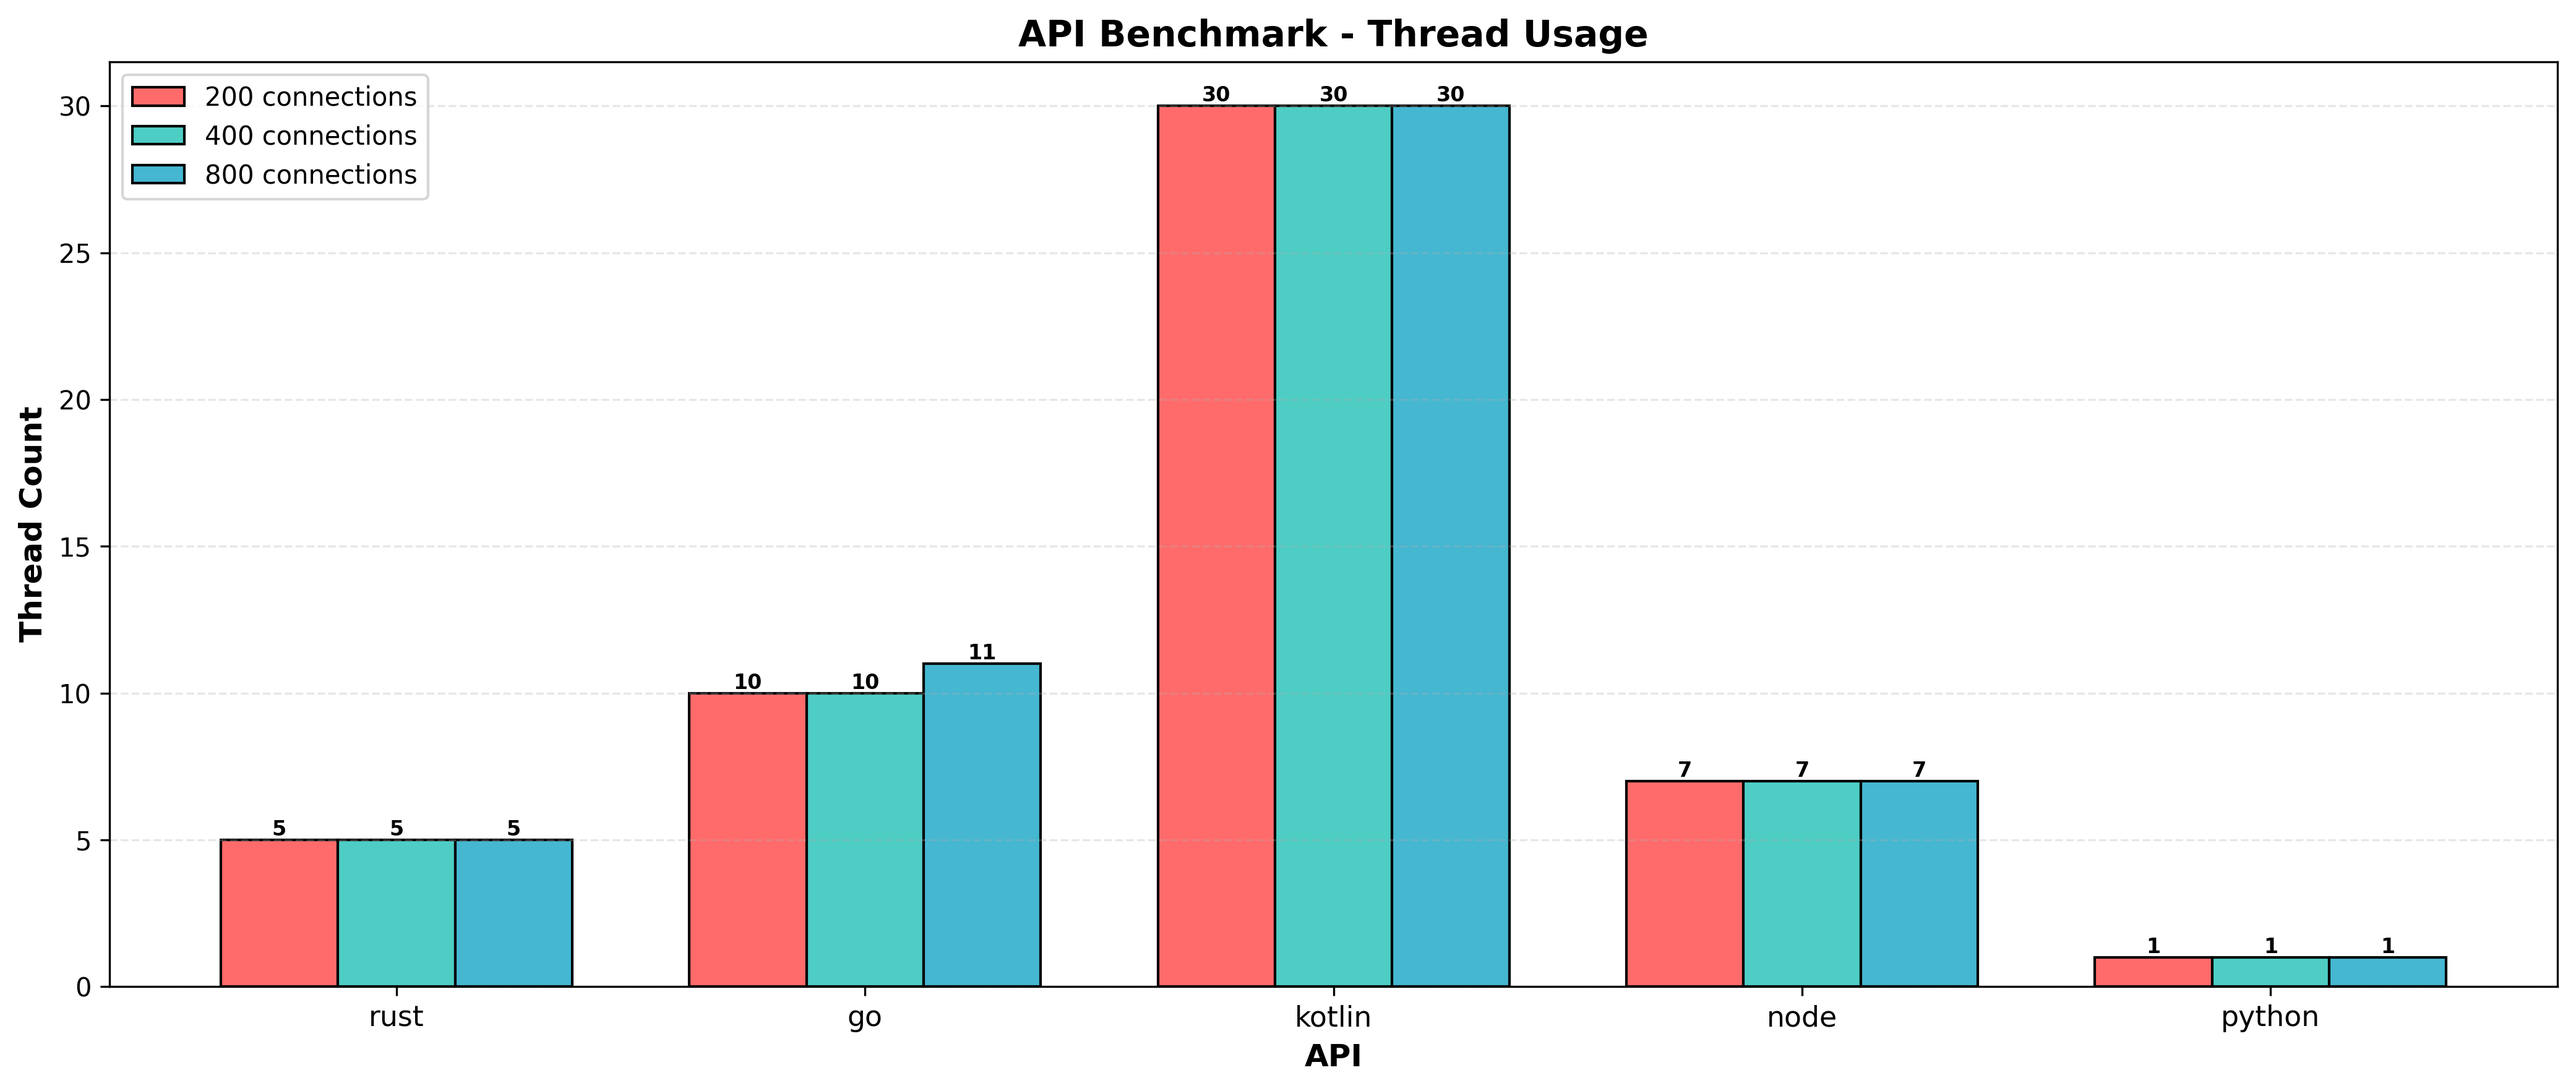
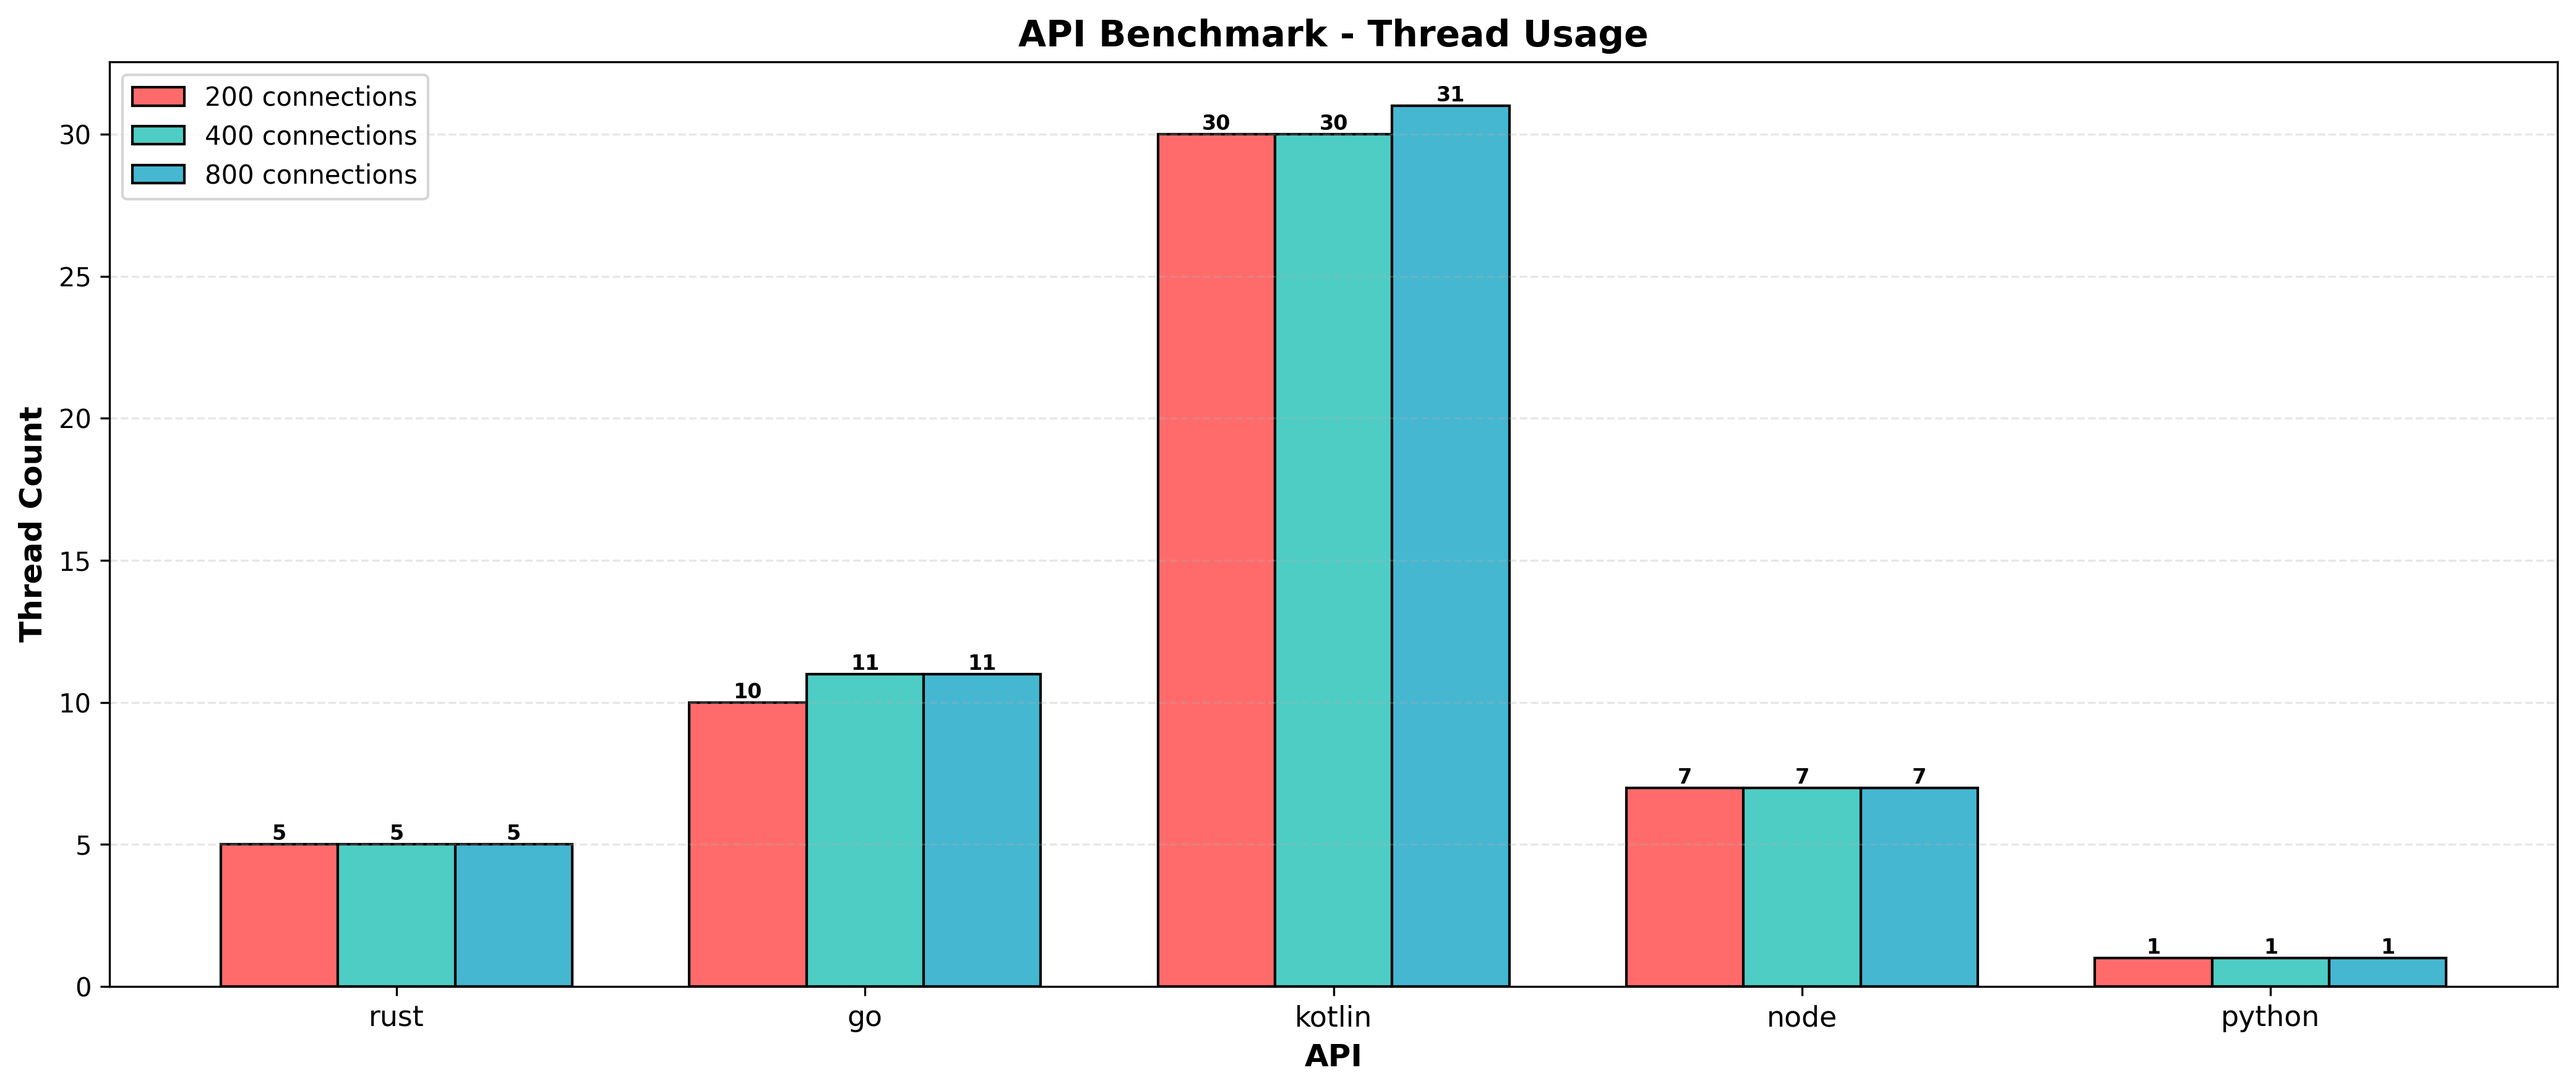
results from github actions autocommit

diff --git a/results/raw.md b/results/raw.md
@@ -1,26 +1,26 @@
 # Results
 ## Timestamp
-Fri Jan 2 10:20:14 UTC 2026
+Fri Jan 2 11:55:20 UTC 2026
 ## Hardware Info
 | CPU Model | Num CPUs | Memory |
 | --------- | -------- | ------ |
-| Intel(R) Xeon(R) Platinum 8370C CPU @ 2.80GHz | 4 | 16G |
+| AMD EPYC 7763 64-Core Processor | 4 | 16G |
 
 ## Benchmarks of 1 Million Requests
 | Test Name | HTTP Conns | Success Rate | Test Seconds | Requests per Second | P50 Millis | P99 Millis | P99.9 Millis | API Memory MB | API CPU Time | API Threads |
 | --------- | ---------- | ------------ | ------------ | ------------------- | ---------- | ---------- | ------------ | ------------- | ------------ | ----------- |
-| rust | 200 | 100.0% | 6.2 | 159987.8 | 1.1283 | 2.7413 | 3.9035 | 8.5 | 00:00:11 | 5 |
-| rust | 400 | 100.0% | 6.2 | 160508.9 | 2.4893 | 4.6132 | 6.8810 | 13.0 | 00:00:11 | 5 |
-| rust | 800 | 100.0% | 6.5 | 152800.3 | 5.1101 | 8.5590 | 14.1767 | 22.2 | 00:00:12 | 5 |
-| go | 200 | 100.0% | 8.7 | 114423.3 | 1.3786 | 5.4684 | 7.5757 | 17.7 | 00:00:20 | 10 |
-| go | 400 | 100.0% | 8.6 | 116203.4 | 2.8594 | 9.9470 | 13.8682 | 24.6 | 00:00:20 | 10 |
-| go | 800 | 100.0% | 9.3 | 106725.4 | 6.7908 | 18.5573 | 30.0312 | 37.7 | 00:00:22 | 11 |
-| kotlin | 200 | 100.0% | 11.4 | 87831.7 | 1.5071 | 9.7161 | 38.4389 | 541.7 | 00:00:32 | 30 |
-| kotlin | 400 | 100.0% | 11.1 | 89116.0 | 3.4435 | 16.5652 | 61.2576 | 604.8 | 00:00:31 | 30 |
-| kotlin | 800 | 100.0% | 12.1 | 82166.9 | 7.6186 | 33.0828 | 102.9260 | 617.5 | 00:00:34 | 30 |
-| node | 200 | 100.0% | 21.8 | 45710.6 | 3.8407 | 6.8401 | 9.3349 | 107.0 | 00:00:22 | 7 |
-| node | 400 | 100.0% | 25.5 | 39199.4 | 8.9090 | 14.0736 | 20.8936 | 139.3 | 00:00:25 | 7 |
-| node | 800 | 100.0% | 26.2 | 38172.1 | 18.4772 | 28.6024 | 47.1297 | 149.6 | 00:00:26 | 7 |
-| python | 200 | 100.0% | 182.0 | 8912.9 | 36.0579 | 40.8387 | 43.5866 | 34.7 | 00:03:02 | 1 |
-| python | 400 | 100.0% | 190.9 | 8992.6 | 75.8968 | 86.7951 | 91.3985 | 37.3 | 00:03:10 | 1 |
-| python | 800 | 100.0% | 193.0 | 10044.8 | 154.2073 | 174.9353 | 182.3190 | 42.3 | 00:03:13 | 1 |
+| rust | 200 | 100.0% | 9.0 | 110883.5 | 1.6541 | 4.6142 | 6.0271 | 8.3 | 00:00:17 | 5 |
+| rust | 400 | 100.0% | 8.7 | 114692.6 | 3.2401 | 7.6260 | 10.9926 | 13.1 | 00:00:17 | 5 |
+| rust | 800 | 100.0% | 8.7 | 114868.2 | 6.8402 | 11.6438 | 17.1886 | 22.1 | 00:00:17 | 5 |
+| go | 200 | 100.0% | 11.8 | 84212.1 | 1.8558 | 7.4109 | 10.0083 | 17.5 | 00:00:28 | 10 |
+| go | 400 | 100.0% | 11.4 | 87455.0 | 3.8700 | 13.3778 | 18.2549 | 24.4 | 00:00:27 | 11 |
+| go | 800 | 100.0% | 11.4 | 87667.6 | 8.1938 | 24.5681 | 36.6263 | 37.9 | 00:00:27 | 11 |
+| kotlin | 200 | 100.0% | 14.2 | 70136.2 | 1.9814 | 11.9942 | 34.2025 | 502.0 | 00:00:39 | 30 |
+| kotlin | 400 | 100.0% | 14.2 | 70100.8 | 4.6498 | 20.8856 | 44.5764 | 519.7 | 00:00:39 | 30 |
+| kotlin | 800 | 100.0% | 15.9 | 62916.1 | 10.8575 | 43.0830 | 117.5849 | 535.2 | 00:00:45 | 31 |
+| node | 200 | 100.0% | 34.9 | 28636.6 | 5.9121 | 9.5541 | 10.8655 | 103.7 | 00:00:35 | 7 |
+| node | 400 | 100.0% | 35.9 | 27813.8 | 12.4070 | 19.2101 | 26.4133 | 140.0 | 00:00:36 | 7 |
+| node | 800 | 100.0% | 35.7 | 28022.5 | 25.1876 | 41.2560 | 48.1236 | 148.0 | 00:00:36 | 7 |
+| python | 200 | 100.0% | 241.2 | 6677.9 | 47.4505 | 55.4909 | 57.6673 | 34.4 | 00:04:01 | 1 |
+| python | 400 | 100.0% | 232.4 | 7532.5 | 91.8734 | 105.2665 | 108.5509 | 37.7 | 00:03:52 | 1 |
+| python | 800 | 100.0% | 234.4 | 7766.7 | 185.6283 | 213.1642 | 224.0671 | 42.7 | 00:03:54 | 1 |

diff --git a/results/latest.md b/results/latest.md
@@ -1,6 +1,6 @@
 # Latest Results
 
-Timestamp: `Fri Jan 2 10:20:14 UTC 2026`
+Timestamp: `Fri Jan 2 11:55:20 UTC 2026`
 
 ## Requests Per Second
 ![Requests Per Second](rps.png)
